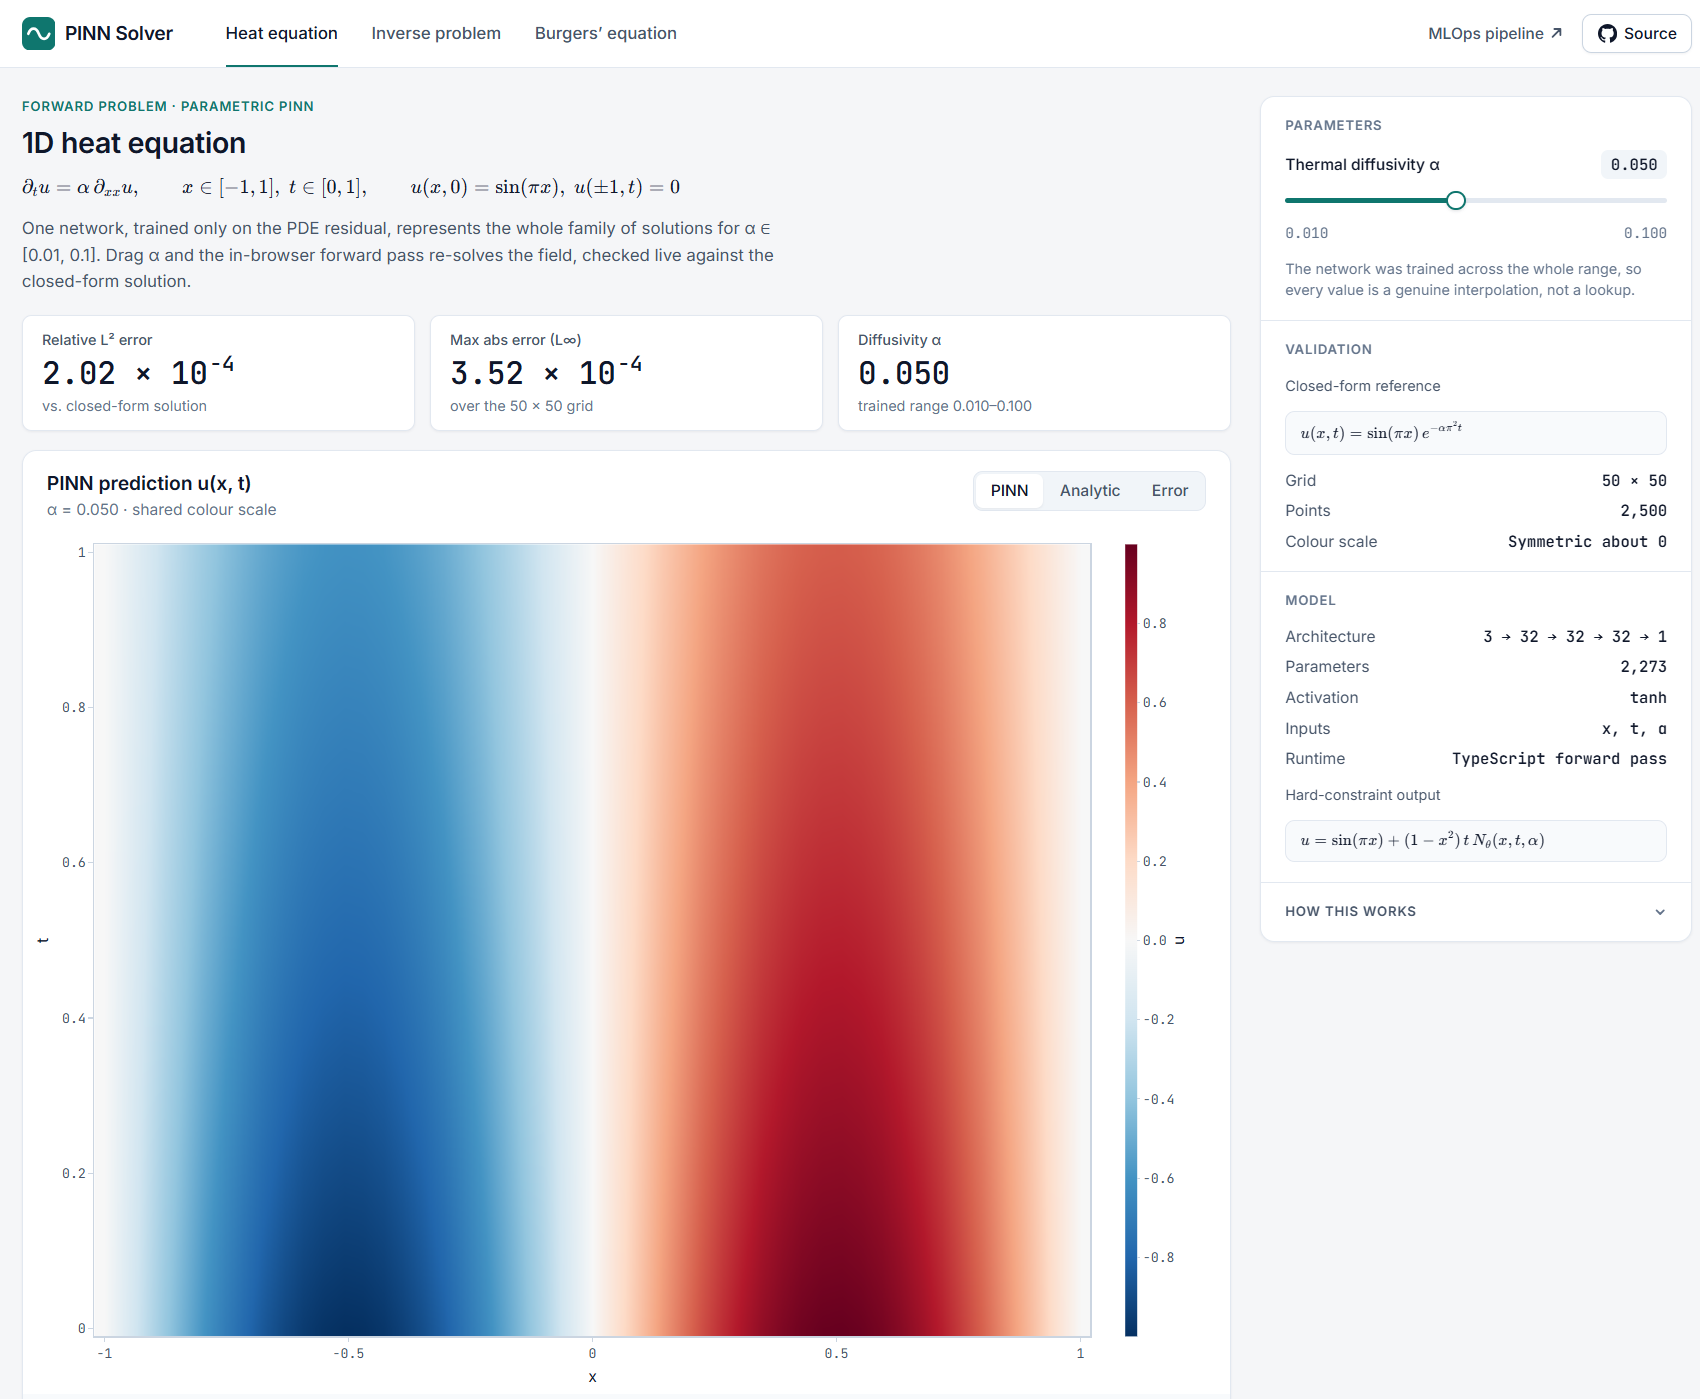
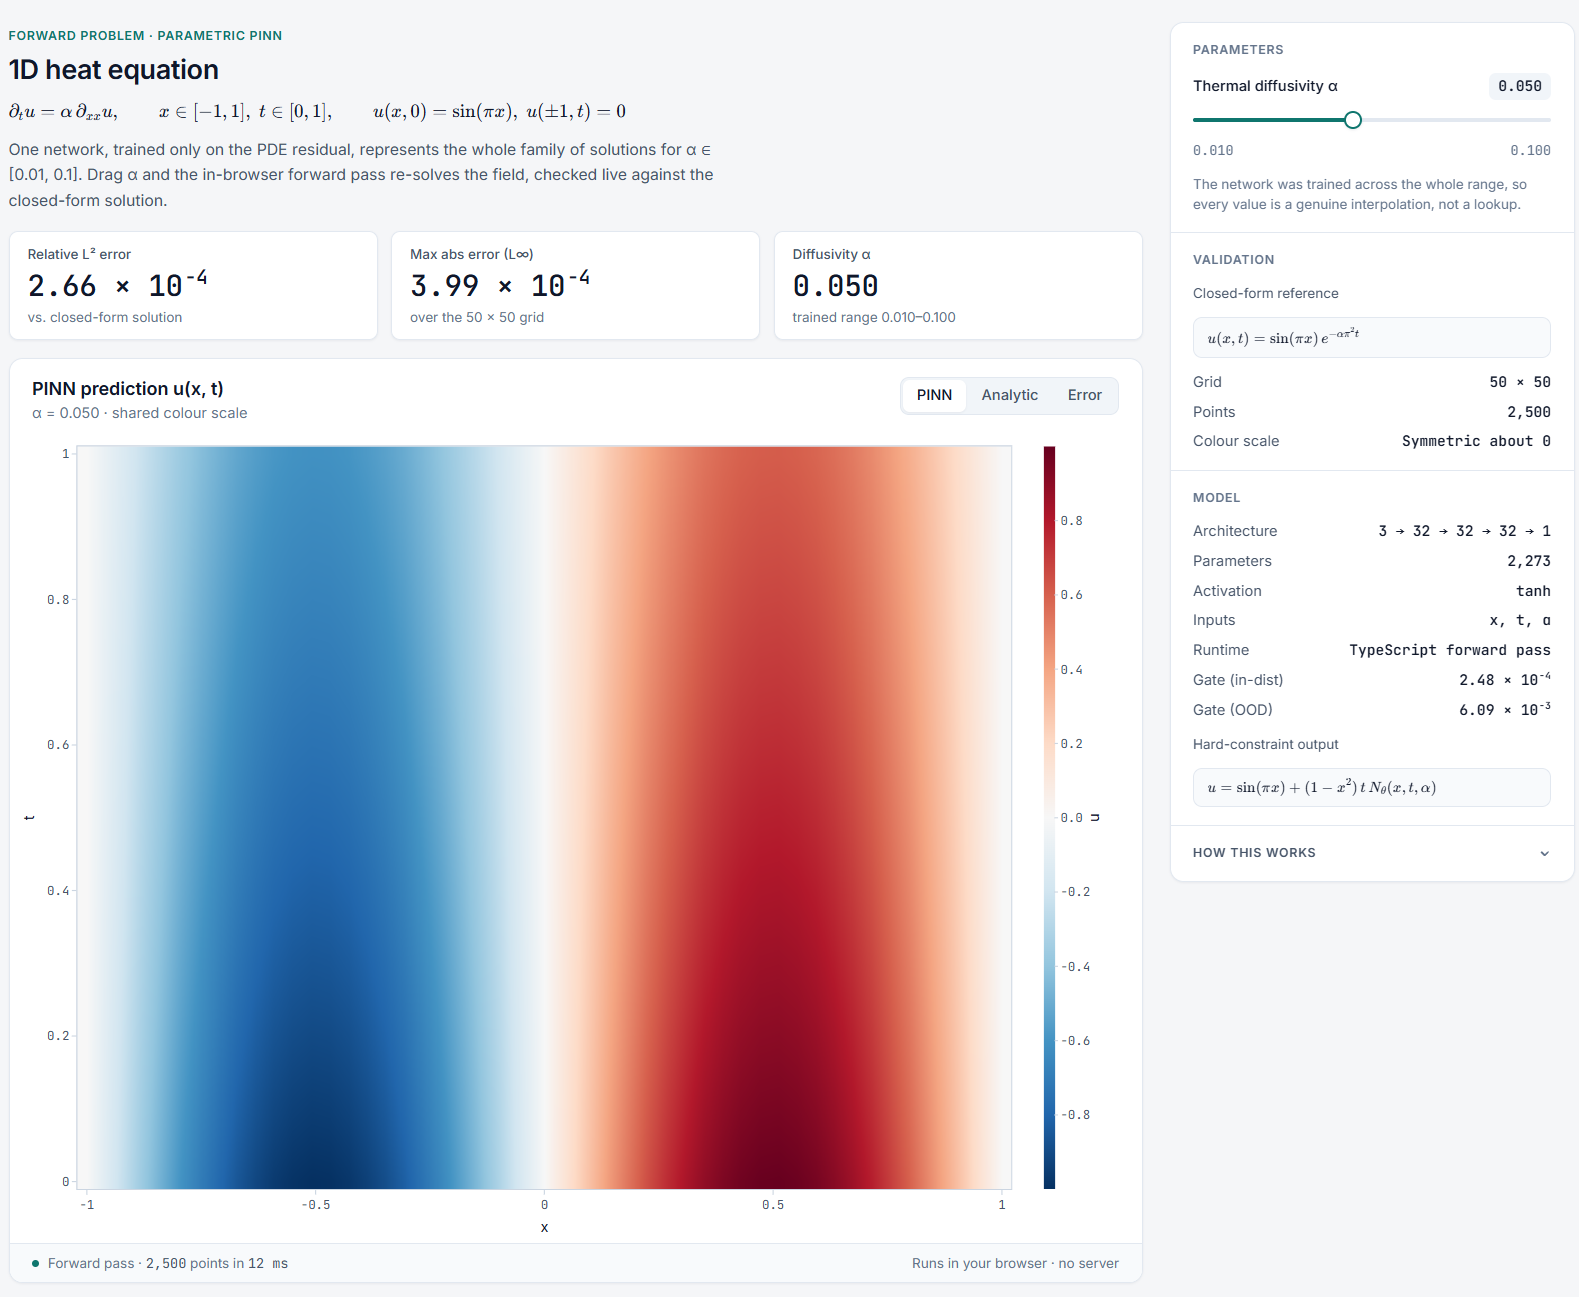
docs: update test counts and recapture screenshots

diff --git a/README.md b/README.md
@@ -30,7 +30,7 @@
 ```powershell
 cd python
 uv sync --group mlops
-uv run --group mlops pytest -m "not slow"                       # 46 tests
+uv run --group mlops pytest -m "not slow"                       # 59 tests
 uv run --group mlops python mlops/train_entry.py --epochs 20000 # train + log to ./mlruns
 uv run --group mlops python mlops/gate.py --model-dir outputs/<run-dir>
 ```
@@ -370,7 +370,7 @@ PDE-solver/
 │  ├─ mlops/          # MLOps logic: train_entry, gate, test_set, serialization, score, logging_utils
 │  ├─ scripts/        # parity-vector generation, Burgers refinement, Docker smoke test
 │  ├─ figures/        # generated study plots (e.g. convergence.png)
-│  └─ pytests/        # 47 tests – core + MLOps, all offline (Azure SDK mocked); 46 fast + 1 slow accuracy regression
+│  └─ pytests/        # 60 tests – core + MLOps, all offline (Azure SDK mocked); 59 fast + 1 slow accuracy regression
 ├─ mlops/             # Azure ML assets: environment + job + endpoint + deployment YAML, runbook
 ├─ frontend/          # React + TypeScript web inference
 └─ docs/              # screenshots and endpoint consumption examples
